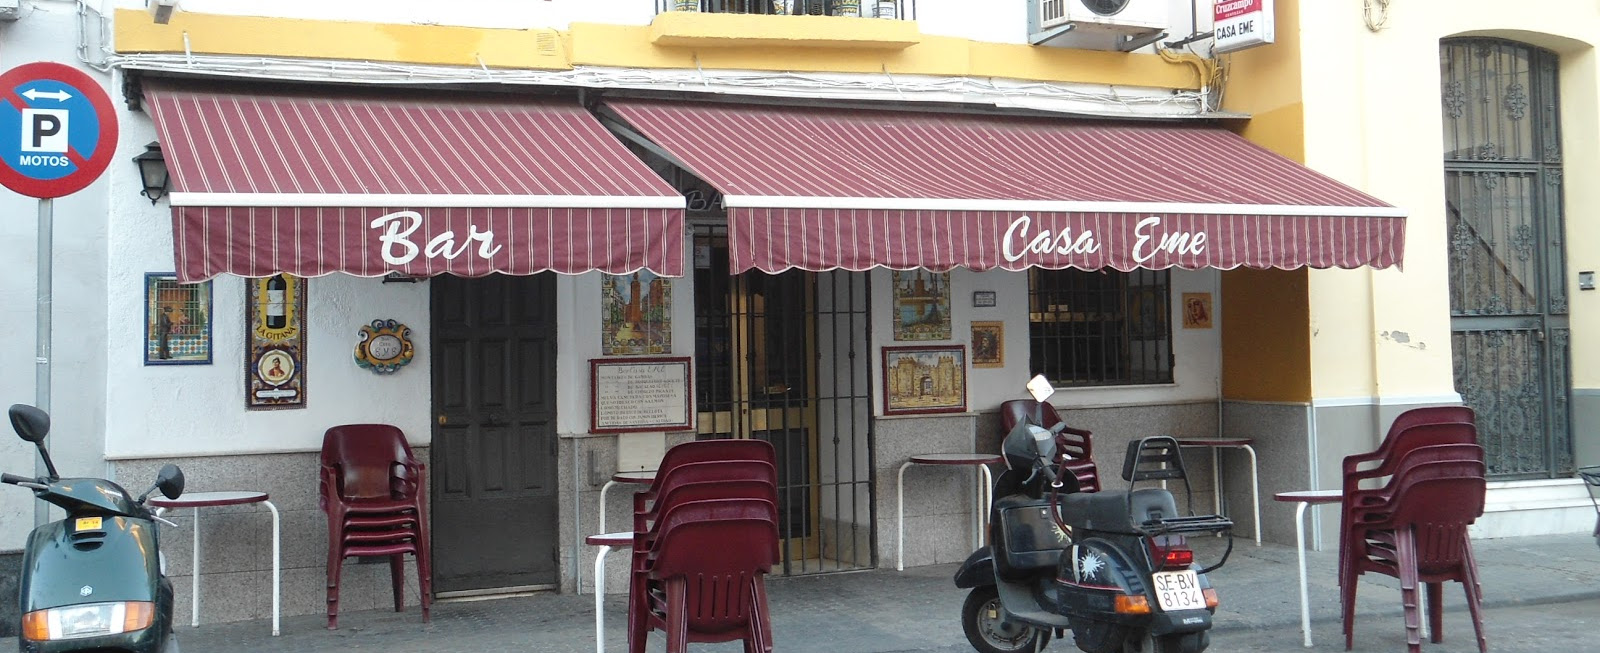
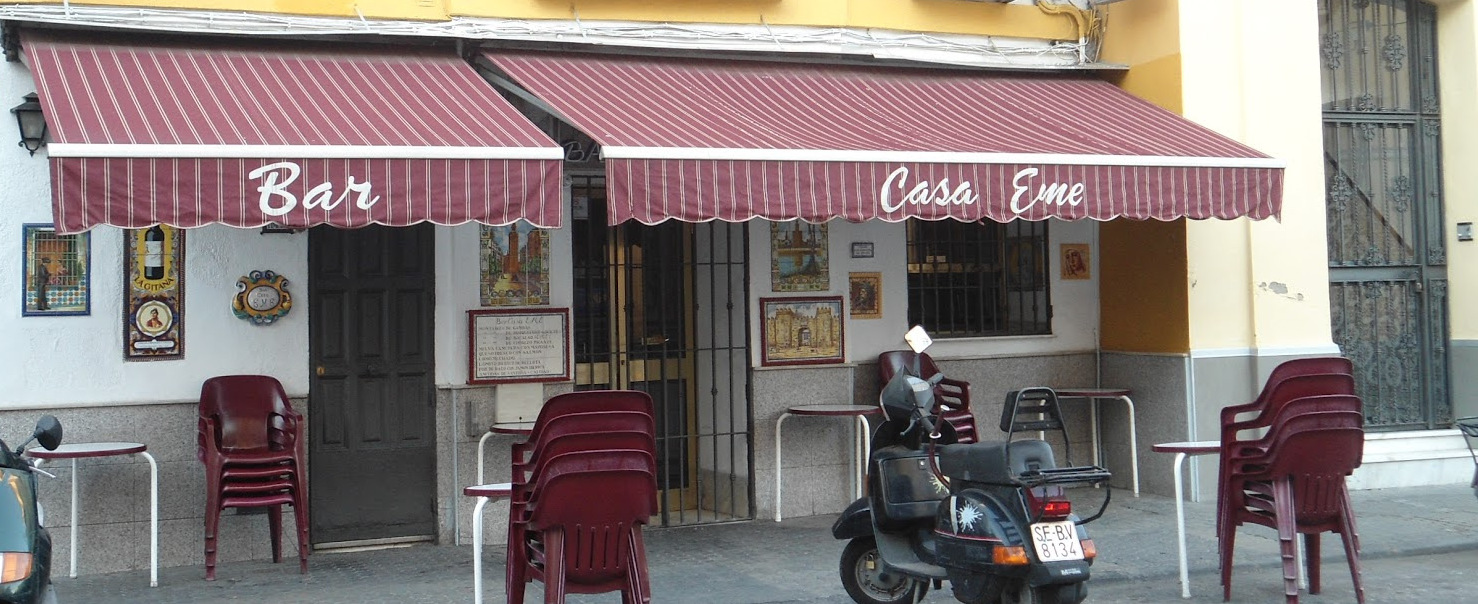
Add text to infos pages

diff --git a/src/BodaLuzos-app/bodaluzos-rooms-info.html b/src/BodaLuzos-app/bodaluzos-rooms-info.html
@@ -44,9 +44,80 @@
                         <iron-icon icon="notification:wc"></iron-icon>
                     </div>
                 </div>
-                <p>Lorem ipsum dolor sit amet, consectetur adipisicing elit. Distinctio odio accusantium, quibusdam doloremque,
-                    laudantium asperiores ipsam quaerat atque reprehenderit earum corporis, porro quos eius! Dolorem soluta
-                    consectetur tenetur, omnis nisi.</p>
+                <p>Cualquier alojamiento que esté en el Centro Histórico de Sevilla
+                    será un buen lugar para hacer turismo y no estará muy lejos de la Iglesia
+                    y el lugar de celebración (max. unos 15 min). Aquí os sugerimos una serie de hoteles
+                     y hostales como ejemplo, si bien os recomendamos mirar
+                    Webs de apartamentos como airbnb debido a que Sevilla tiene mucho turismo y el alojamiento en hoteles
+                    suele tener mucha demanda y ser caro.
+                </p>
+                <h4>Hoteles</h4>
+                <p>Hotel Vincci la Rábida ****</p>
+                <ul>
+                    <li>Precio: 237,60€/noche en habitación doble. Reserva por teléfono (954501280) indicando boda de Lucía y Alberto</li>
+                    <li>Distancia a Iglesia: 15 min - 1,2 km</li>
+                    <li>La celebración es aquí</li>
+                </ul>
+                <p>Hotel Plaza ***</p>
+                <ul>
+                    <li>Precio aproximado: 80€/noche en habitación doble. <a href="http://www.booking.com/hotel/es/plaza-sevilla1.es.html?aid=304142;label=gen173nr-1FCAEoggJCAlhYSDNiBW5vcmVmaEaIAQGYAQq4AQzIAQzYAQHoAQH4AQuoAgM;sid=cfdec9937fae70e2afaa667fc3f11fdc;checkin=2017-05-20;checkout=2017-05-21;room1=A,A;homd=1;atlas_src=sr_iw_title" target="_blank">Reserva en Booking</a></li>
+                    <li>Distancia a Iglesia: 10 min - 850 m</li>
+                    <li>Distancia a Celebración: 5 min - 450 m</li>
+                </ul>
+                <p>Hotel Europa Boutique Sevilla *</p>
+                <ul>
+                    <li>Precio aproximado: 95€/noche en habitación doble. <a href="https://www.booking.com/hotel/es/europa-sevilla.es.html?aid=304142;label=gen173nr-1FCAEoggJCAlhYSDNiBW5vcmVmaEaIAQGYAQq4AQzIAQzYAQHoAQH4AQuoAgM;sid=cfdec9937fae70e2afaa667fc3f11fdc;all_sr_blocks=9280901_95182604_0_0_0;checkin=2017-05-20;checkout=2017-05-21;dest_id=-402849;dest_type=city;dist=0;group_adults=2;highlighted_blocks=9280901_95182604_0_0_0;hpos=1;nflt=ht_id%3D204%3Bdi%3D1218;room1=A%2CA;sb_price_type=total;srfid=0713c73f266440e09f83195c84af8fcee1040b44X1;type=total;ucfs=1&" target="_blank">Reserva en Booking</a></li>
+                    <li>Distancia a Iglesia: 13 min - 1 km</li>
+                    <li>Distancia a Celebración: 3 min - 270 m</li>  
+                </ul>
+
+                <p>Hotel Casona de San Andrés ***</p>
+                <ul>
+                    <li>Precio aproximado: 102€/noche en habitación doble. <a href="https://www.booking.com/hotel/es/casona-de-san-andres.es.html?aid=304142;label=gen173nr-1FCAEoggJCAlhYSDNiBW5vcmVmaEaIAQGYAQq4AQzIAQzYAQHoAQH4AQuoAgM;sid=cfdec9937fae70e2afaa667fc3f11fdc;all_sr_blocks=9377302_88194185_0_0_0;checkin=2017-05-20;checkout=2017-05-21;dest_id=-402849;dest_type=city;dist=0;group_adults=2;highlighted_blocks=9377302_88194185_0_0_0;hpos=4;nflt=ht_id%3D204%3Bdi%3D1218;room1=A%2CA;sb_price_type=total;srfid=0713c73f266440e09f83195c84af8fcee1040b44X4;type=total;ucfs=1&" target="_blank">Reserva en Booking</a></li>
+                    <li>Distancia a Iglesia: 6 min - 500 m</li>
+                    <li>Distancia a Celebración: 14 min - 1,1 km</li>
+                </ul>
+                <p>Hotel Baco ***</p>
+                <ul>
+                    <li>Precio aproximado: 112€/noche en habitación doble. <a href="http://www.booking.com/hotel/es/baco.es.html?aid=304142;label=gen173nr-1FCAEoggJCAlhYSDNiBW5vcmVmaEaIAQGYAQq4AQzIAQzYAQHoAQH4AQuoAgM;sid=cfdec9937fae70e2afaa667fc3f11fdc;all_sr_blocks=18897609_88494928_0_2_0;checkin=2017-05-20;checkout=2017-05-21;dest_id=-402849;dest_type=city;dist=0;group_adults=2;highlighted_blocks=18897609_88494928_0_2_0;hpos=15;nflt=ht_id%3D204;room1=A%2CA;sb_price_type=total;srfid=5c2aab8eb1f5987e9d02910a500dcd0bdb61544dX15;type=total;ucfs=1&" 
+                    target="_blank">Reserva en Booking</a></li>
+                    <li>Distancia a Iglesia: 3 min - 240 m</li>
+                    <li>Distancia a Celebración: 17 min - 1,4 km</li>
+                </ul>
+                <p>Hotel Simón *</p>
+                <ul>
+                    <li>Precio aproximado: 125€/noche en habitación doble. <a href="http://www.booking.com/hotel/es/simon.es.html?aid=304142;label=gen173nr-1FCAEoggJCAlhYSDNiBW5vcmVmaEaIAQGYAQq4AQzIAQzYAQHoAQH4AQuoAgM;sid=cfdec9937fae70e2afaa667fc3f11fdc;checkin=2017-05-20;checkout=2017-05-21;room1=A,A;homd=1;nflt=ht_id%3D204%3B;atlas_src=sr_iw_title" target="_blank">Reserva en Booking</a></li>
+                    <li>Distancia a Iglesia: 13 min - 1km</li>
+                    <li>Distancia a Celebración: 3 min - 280 m</li>
+                </ul>
+                <h4>Hostales</h4>
+                <p>Hostal Las Setas</p>
+                <ul>
+        <li>Precio aproximado: 70€/noche en habitación doble. <a href="http://www.booking.com/hotel/es/las-setas-guest-house.es.html?aid=304142;label=gen173nr-1FCAEoggJCAlhYSDNiBW5vcmVmaEaIAQGYAQq4AQzIAQzYAQHoAQH4AQuoAgM;sid=cfdec9937fae70e2afaa667fc3f11fdc;checkin=2017-05-20;checkout=2017-05-21;room1=A,A;homd=1;nflt=di%3D1218%3Bht_id%3D216%3B;atlas_src=sr_iw_title" target="_blank">Reserva en Booking</a></li>
+                </ul>
+                <p>Hostal Sierpes</p>
+                <ul>
+                    <li>Precio aproximado: 68€/noche en habitación doble. <a href="http://www.booking.com/hotel/es/hostal-sierpes.es.html?aid=304142;label=gen173nr-1FCAEoggJCAlhYSDNiBW5vcmVmaEaIAQGYAQq4AQzIAQzYAQHoAQH4AQuoAgM;sid=cfdec9937fae70e2afaa667fc3f11fdc;all_sr_blocks=1213102_96872674_0_2_0;checkin=2017-05-20;checkout=2017-05-21;dest_id=1218;dest_type=district;dist=0;group_adults=2;highlighted_blocks=1213102_96872674_0_2_0;hpos=9;room1=A%2CA;sb_price_type=total;srfid=a49bbbc18319484163e9ce9866d147942e5af5c8X24;type=total;ucfs=1&"
+                    target="_blank">Reserva en Booking</a></li>
+                    <li>Distancia a Iglesia: 7 min - 550 m</li>
+                    <li>Distancia a Celebración: 9 min - 750 m</li>
+                </ul>
+                <p>Hostal Atenas</p>
+                <ul>
+                    <li>Precio aproximado: 64€/noche en habitación doble. <a href="http://www.booking.com/hotel/es/hostal-atenas.es.html?aid=304142;label=gen173nr-1FCAEoggJCAlhYSDNiBW5vcmVmaEaIAQGYAQq4AQzIAQzYAQHoAQH4AQuoAgM;sid=2d59cf27b99c699030662b199277214c;checkin=2017-05-20;checkout=2017-05-21;ucfs=1;highlighted_blocks=18945302_88495154_0_0_0;all_sr_blocks=18945302_88495154_0_0_0;room1=A,A;hpos=1;dest_type=city;dest_id=-402849;srfid=cefbd8d476bc1ea5a821ad725f46532f5275fce4X1;highlight_room="
+                    target="_blank">Reserva en Booking</a></li>
+                    <li>Distancia a Iglesia: 5 min - 350 m</li>
+                    <li>Distancia a Celebración: 14 min - 1,1 km</li>
+                </ul>
+                <h4>Apartamentos</h4>
+                <p>Apartamentos Sevilla</p>
+                <ul>
+                    <li>Precio: 50€/noche para dos personas, 65€/noche para tres, en apartamento con dos camas y un sofá cama. <a href="http://www.apartamentossevilla.com" target="_blank">Reserva en la web </a> indicando
+                boda de Lucía y Alberto, o por teléfono (659.108.170)</a></li>
+                <li>Distancia a Iglesia: 14 min - 1,1 km</li>
+                <li>Distancia a Celebración: 20 min - 1,6 km</li>
+                </ul>
+                </p>
             </div>
             <div class="card-actions">
                 <a href="/info/main" on-tap="prepareAnimation">

diff --git a/src/BodaLuzos-app/bodaluzos-banquet-info.html b/src/BodaLuzos-app/bodaluzos-banquet-info.html
@@ -44,9 +44,29 @@
                         <iron-icon icon="notification:wc"></iron-icon>
                     </div>
                 </div>
-                <p>Lorem ipsum dolor sit amet, consectetur adipisicing elit. Distinctio odio accusantium, quibusdam doloremque,
-                    laudantium asperiores ipsam quaerat atque reprehenderit earum corporis, porro quos eius! Dolorem soluta
-                    consectetur tenetur, omnis nisi.</p>
+                <p>
+                    La celebración tendrá lugar a las 14:30 en el Hotel Vincci la Rábida, situado en la Calle Castelar, nº 24
+                </p>
+                <h4>¿Cómo llegar?</h4>
+                <p>
+                    Junto a la Iglesia, en Calle Imagen, partirá en dos turnos un transporte para los invitados 
+                    que los llevará hasta el hotel. Las horas de salida aproximadas serán las 14:00 y las 14:30 horas y
+                    el tiempo de trayecto será de unos 15-20 minutos.
+                </p>
+                <p>
+                    Otras opciones son:
+                    <ul>
+                        <li>Coger un taxi. Hay una parada de taxis a un minuto de la celebración, en la calle Imagen, junto 
+                            a la Plaza Mayor, popularmente conocida como Las Setas. El precio del trayecto es de unos 5-6€ y 
+                            su duración es de 10 minutos.
+                        </li>
+                        <li>
+                            Ir dando un paseo. A través de las pequeñas calles del centro de Sevilla, podemos llegar fácilmente
+                            caminando unos 15 minutos (1,5 km). La ruta que os recomendamos aquí (no es la más corta, pero sí
+                             la más fácil) pasa por Las Setas, la calle Cuna y el Ayuntamiento.
+                        </li>
+                    </ul>
+                </p>
             </div>
             <div class="card-actions">
                 <a href="/info/main" on-tap="prepareAnimation">

diff --git a/src/BodaLuzos-app/bodaluzos-ceremony-info.html b/src/BodaLuzos-app/bodaluzos-ceremony-info.html
@@ -44,9 +44,18 @@
                         <iron-icon icon="notification:wc"></iron-icon>
                     </div>
                 </div>
-                <p>Lorem ipsum dolor sit amet, consectetur adipisicing elit. Distinctio odio accusantium, quibusdam doloremque,
-                    laudantium asperiores ipsam quaerat atque reprehenderit earum corporis, porro quos eius! Dolorem soluta
-                    consectetur tenetur, omnis nisi.</p>
+                <p>
+                    La ceremonia religiosa se producirá a las 12:30 horas en la Iglesia de San Pedro. Se 
+                    trata de un templo gótico-mudéjar del siglo XVI cuya entrada
+                    principal, en contra de lo que pueda parecer, no se encuentra frente a la Plaza de Cristo de Burgos
+                    (popularmente conocida como Plaza de San Pedro), sino en la Calle Santa Ángela de la Cruz.
+                </p>
+                <p>
+                    Como curiosidad, en la fachada lateral de la Iglesia encontramos un gran azulejo que representa 
+                    <cite>Las Ánimas del Purgatorio</cite> de Juan Oliver, el cual siempre esconde un pajarito
+                    en todas sus obras. Cuenta la leyenda popular que quien lo encuentre se casará pronto, ¿serás capaz
+                    de encontrarlo?
+                </p>
             </div>
             <div class="card-actions">
                 <a href="/info/main" on-tap="prepareAnimation">

diff --git a/src/BodaLuzos-app/bodaluzos-home.html b/src/BodaLuzos-app/bodaluzos-home.html
@@ -116,7 +116,7 @@
             <div class="home-div">
                 <iron-image class="home-picture" src="/src/images/luzos.jpg" preload sizing="cover"></iron-image>
                 <div class="home-text">
-                    <p><h3>Bienvenido!</h3></p>
+                    <p><h3>¡Bienvenido!</h3></p>
                     <p>Hemos confeccionado esta web con mucho cariño con motivo de nuestra boda, y en ella podrás encontrar información útil para el día de la boda, como por ejemplo que hoteles recomendamos si vienes de fuera o simplemente lo piensas dar todo y ya sabes que no vas a poder volver a casa después de la fiesta (cosa que apoyaremos desde nuestro más profundo interior).</p>
                     <p>Si eres un poco curioso, te hemos preparado una pequeña <a href="/timeline">sección</a> dónde podrás conocer que ha pasado desde el día que nos conocímos y como hemos llegado hasta aquí, y sí, hay fotos.</p>
                     <p>También aprovechamos y queremos ponertelo fácil para que nos <a href="/confirm">confirmes la asistencia a la boda</a>. Por esta misma web y con la ayuda de facebook para asegurarnos de que eres tú, podrás darnos la alegría de decirnos que estarás con nosotros en este día tan especial.</p>

diff --git a/src/BodaLuzos-app/bodaluzos-todo-info.html b/src/BodaLuzos-app/bodaluzos-todo-info.html
@@ -37,16 +37,16 @@
                 text-decoration: none;
             }
         </style>
-        <paper-card heading="" image="/src/images/que-ver.jpg" elevation="1" animated-shadow="false">
+        <paper-card heading="" image="/src/images/casa-eme-1.jpg" elevation="1" animated-shadow="false">
             <div class="card-content">
                 <div class="header">Qu&eacute; ver en Sevilla
                     <div class="header-icon">
                         <iron-icon icon="notification:wc"></iron-icon>
                     </div>
                 </div>
-                <p>Lorem ipsum dolor sit amet, consectetur adipisicing elit. Distinctio odio accusantium, quibusdam doloremque,
-                    laudantium asperiores ipsam quaerat atque reprehenderit earum corporis, porro quos eius! Dolorem soluta
-                    consectetur tenetur, omnis nisi.</p>
+                <p>Estamos preparando una lista para que descubras por qué Sevilla tiene un color especial... ¡Paciencia, que aún 
+                    te quedan más de dos meses para aparecer por allí!</p>
+                </p>
             </div>
             <div class="card-actions">
                 <a href="/info/main" on-tap="prepareAnimation">

diff --git a/src/BodaLuzos-app/bodaluzos-main-info.html b/src/BodaLuzos-app/bodaluzos-main-info.html
@@ -88,7 +88,7 @@
                     </div>
                     <p>Por si acaso aún no te has enterado, el cura repartirá los tickets para la barra libre, así que no puedes
                         ir directo al banquete. Si aún asi no llegas a tiempo a la iglesia, aquí tienes la dirección de donde
-                        celebraremos el banquete y como puedes llegar.</p>
+                        celebraremos el banquete y cómo puedes llegar.</p>
                 </div>
                 <div class="card-actions">
                     <a href="/info/banquet" on-tap="prepareAnimation">
